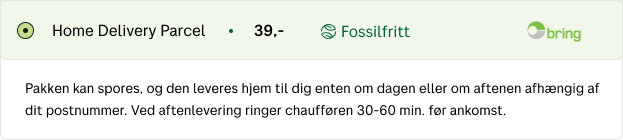
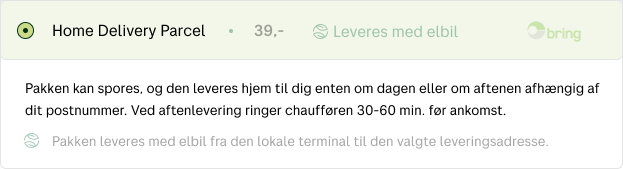
Updating best practice checkout illustrations
...and adding new environmental data information

diff --git a/content/api/shipping-guide_2/environmentaldata.md b/content/api/shipping-guide_2/environmentaldata.md
@@ -24,7 +24,7 @@ For the following Norwegian domestic and Nordic parcel services it is now possib
 
 
 To get the environmental data, use the following new fields:
-EnvironmentalData>true</WithEnvironmentalData>
+`<EnvironmentalData>true</WithEnvironmentalData>`
 
 * POST Request: withEnvironmentalData
 ```json
@@ -37,7 +37,7 @@ The data returned contains a list of transport legs (FIRST_MILE, LINE_HAUL and L
       <ns2:TransportLeg>
           <ns2:TransportLegType>LAST_MILE</ns2:TransportLegType>               
           <ns2:FossilFree>true</ns2:FossilFree>
-          <ns2:Description>Pakken leveres fossilfritt til din adresse</ns2:Description>
+          <ns2:Description>The parcel is delivered with fossil-free fuel from the local terminal to the chosen delivery address</ns2:Description>
           <ns2:Details>
               <ns2:Electric>0.6</ns2:Electric>
               <ns2:Bio>0.4</ns2:Bio>
@@ -45,15 +45,39 @@ The data returned contains a list of transport legs (FIRST_MILE, LINE_HAUL and L
       </ns2:TransportLeg>
 </ns2:EnvironmentalData>
 ```  
+
+```json
+{
+  "environmentalData": [
+    {
+      "transportLeg": "LAST_MILE",
+      "fossilFree": true,
+      "description": "The parcel is delivered with fossil-free fuel from the local terminal to the chosen delivery address",
+      "details": {
+        "electric": 0.6,
+        "bio": 0.4
+      }
+    }
+  ]
+}
+```
 If the transport leg is carried out by electric vehicle, `electric` will contain the percentage share of electric vehicle usage where `1.0 == 100%`. If transport leg is carried out with a mix of bio-diesel and electric vehicles, `fossilFree` will still be `true` if percentages sums up to `1.0`. `electric` and `bio` will contain the usage percentage share of corresponding vehicles.
 
 The API currently only supports environmental data for the `LAST_MILE` leg.
 
 **NOTE**: the API returns values based on what is, in a normal situation, expected for the postal code in question. In case of car maintenance or other extraordinaty situations, we can not guarantee a fossil free delivery.
 
-Environmental logo is also returned in the GuiInformation  for mentioned services when also including ```<WithGuiInformation>true</WithGuiInformation>``` in the request
+Environmental logo and tag is also included in the GuiInformation for mentioned services when also setting `<WithGuiInformation>true</WithGuiInformation>` or `withGuiInformation: true` in the request
 ```xml
 <ns2:GuiInformation>
      <ns2:EnvironmentalLogoUrl>https://www.mybring.com/shipping-guide/assets/img/Environment_logo.svg</ns2:EnvironmentalLogoUrl>
+     <ns2:EnvironmentalTagUrl>https://www.mybring.com/shipping-guide/assets/img/Environment_tag_fossilFree_en.png</ns2:EnvironmentalTagUrl>
 </ns2:GuiInformation>
+```
+
+```json
+{
+  "environmentalLogoUrl": "https://www.mybring.com/shipping-guide/assets/img/Environment_logo.svg",
+  "environmentalTagUrl": "https://www.mybring.com/shipping-guide/assets/img/Environment_tag_electric_en.png"
+}
 ```
